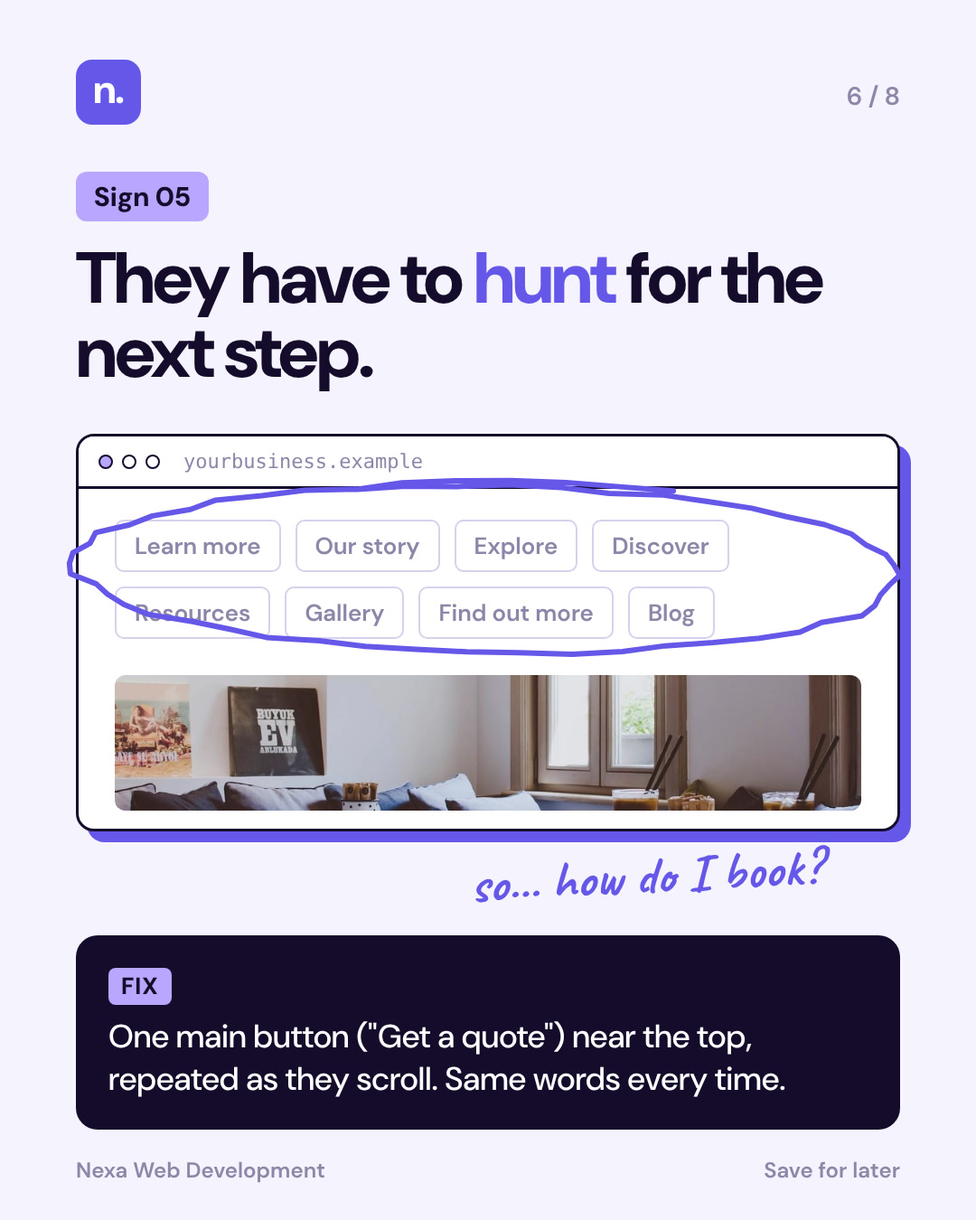
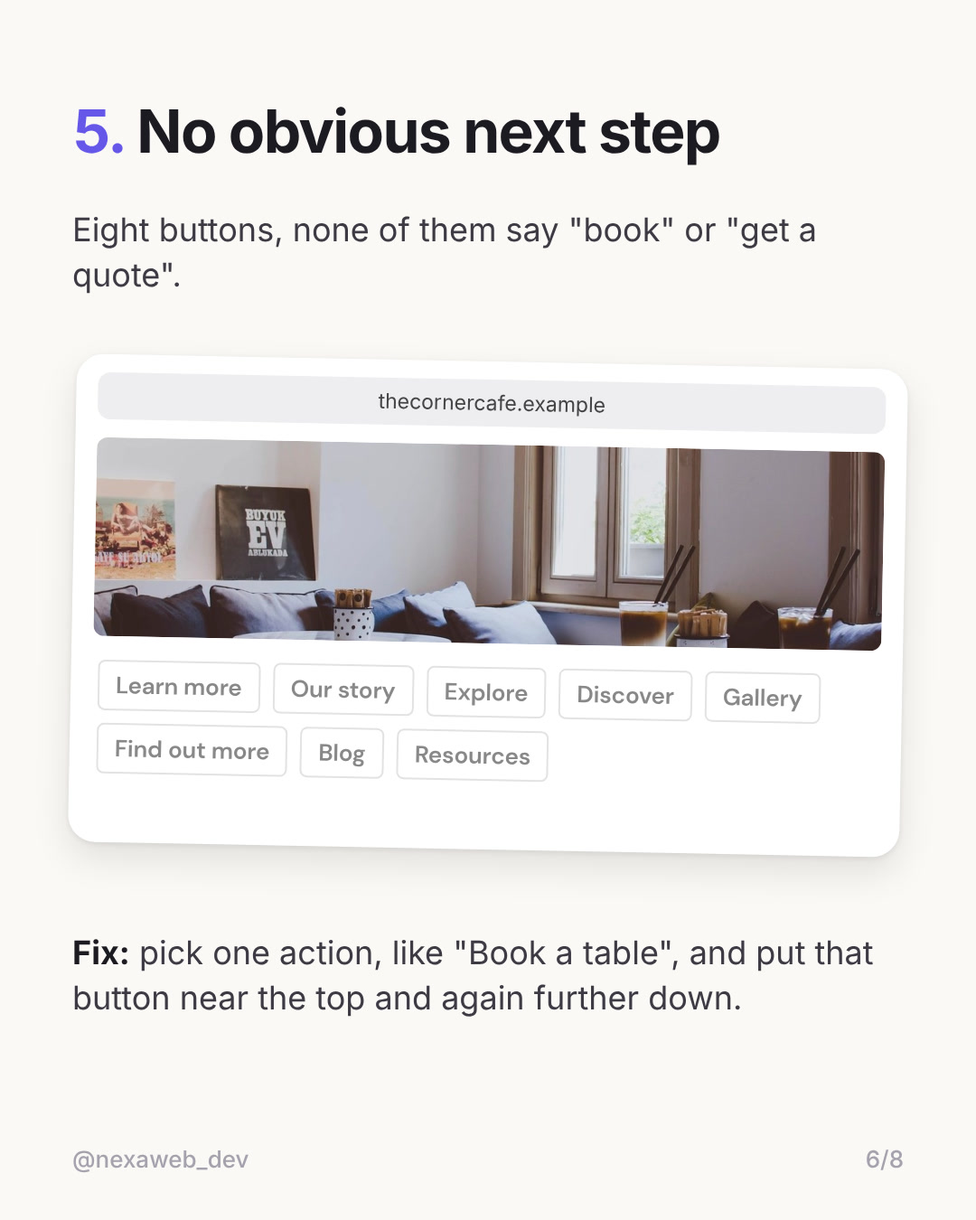
Nexa carousel v5: less-AI casual screenshot style
Claude-Session: https://claude.ai/code/session_01MAv6C5ZgnW2b7gxvkk4iYD

diff --git a/nexa/images/website-costing-customers-6-signs/src/slides.html b/nexa/images/website-costing-customers-6-signs/src/slides.html
@@ -1,160 +1,158 @@
 <!doctype html><html><head><meta charset="utf-8"><style>
-@font-face{font-family:Hand;src:url(/home/claude/reels-hosting/pipeline/fonts/Caveat.ttf)}
 @font-face{font-family:DMS;src:url("/usr/share/fonts/truetype/google-fonts/ofl/dmsans/DMSans[opsz,wght].ttf");font-weight:100 1000}
-:root{--ind:#6557E8;--lav:#B9A6FF;--navy:#150C2B;--paper:#F5F3FD;--soft:#E6E0FF;--line:#D6D0EC;--mute:#8E86A8}
+:root{--ind:#6557E8;--lav:#B9A6FF;--navy:#150C2B;--ink:#1d1b22;--mute:#77737f}
 *{box-sizing:border-box;margin:0;padding:0}
-body{font-family:DMS,sans-serif;color:var(--navy);background:#999}
-.s{position:relative;width:1080px;height:1350px;overflow:hidden;background:var(--paper)}
-.s.dark{background:var(--navy);color:#fff}
-.logo{position:absolute;left:84px;top:66px;width:72px;height:72px;border-radius:18px;background:var(--ind);color:#fff;font-weight:800;font-size:44px;display:flex;align-items:center;justify-content:center;letter-spacing:-1px;padding-bottom:6px}
-.pg{position:absolute;right:84px;top:88px;font-size:28px;font-weight:600;color:var(--mute)}
-.dark .pg{color:#8B80B8}
-.tagl{display:inline-block;background:var(--lav);color:var(--navy);font-weight:800;font-size:30px;padding:8px 20px;border-radius:12px}
-.lbl{position:absolute;left:84px;top:190px}
-.h{position:absolute;left:84px;right:84px;font-weight:800;letter-spacing:-.035em;line-height:1.02}
-.h em{font-style:normal;color:var(--ind)}
-.dark .h em{color:var(--lav)}
-.win{position:absolute;left:84px;right:84px;background:#fff;border:3px solid var(--navy);border-radius:20px;overflow:hidden;box-shadow:12px 12px 0 var(--ind)}
-.wbar{height:58px;border-bottom:3px solid var(--navy);display:flex;align-items:center;padding:0 22px;gap:10px;background:#fff}
-.wbar i{width:16px;height:16px;border-radius:50%;border:2.5px solid var(--navy);display:inline-block}
-.wbar i:first-child{background:var(--lav)}
-.wbar span{margin-left:16px;font-family:'DejaVu Sans Mono',monospace;font-size:22px;color:var(--mute)}
-.hand{font-family:Hand;color:var(--ind);font-weight:700;position:absolute;line-height:1}
-.dark .hand{color:var(--lav)}
-svg.mk{position:absolute;overflow:visible}
-.fix{position:absolute;left:84px;right:84px;bottom:100px;background:var(--navy);color:#fff;border-radius:24px;padding:30px 36px 32px;font-size:36px;line-height:1.3;font-weight:500}
-.fix b{display:inline-block;background:var(--lav);color:var(--navy);font-weight:800;font-size:26px;padding:4px 14px;border-radius:8px;margin-bottom:12px;letter-spacing:1px}
-.foot{position:absolute;left:84px;right:84px;bottom:40px;display:flex;justify-content:space-between;font-size:24px;color:var(--mute);font-weight:600}
-.field{border:2px solid var(--line);border-radius:10px;padding:12px 16px;font-size:24px;color:var(--mute)}
-.pill{border:2px solid var(--line);border-radius:10px;padding:10px 20px;font-size:26px;font-weight:600;color:var(--mute);display:inline-block}
-.bar{height:18px;background:#ECE8F7;border-radius:6px}
-.img{background:var(--soft);border-radius:12px;position:relative;overflow:hidden}
-.ph{display:block;width:100%;height:100%;object-fit:cover;border-radius:12px}
-.img:before{content:"";position:absolute;left:12%;bottom:-30%;width:60%;height:80%;background:var(--lav);border-radius:50% 50% 0 0;opacity:.8}
-.img:after{content:"";position:absolute;right:16%;top:20%;width:46px;height:46px;border-radius:50%;background:#fff}
+body{font-family:'Inter',sans-serif;color:var(--ink);background:#999}
+.s{position:relative;width:1080px;height:1350px;overflow:hidden;background:#FAF9F6}
+.t{position:absolute;left:80px;right:80px;font-weight:700;font-size:66px;line-height:1.08;letter-spacing:-.025em}
+.t .n{color:var(--ind)}
+.p{position:absolute;left:80px;right:80px;font-size:36px;line-height:1.38;color:#3d3a44;font-weight:400}
+.fx{position:absolute;left:80px;right:80px;font-size:36px;line-height:1.38;font-weight:400;color:#3d3a44}
+.fx b{font-weight:700;color:var(--ink)}
+.handle{position:absolute;left:80px;bottom:52px;font-size:26px;color:#a6a2ad;font-weight:500}
+.cnt{position:absolute;right:80px;bottom:52px;font-size:26px;color:#a6a2ad;font-weight:500}
+/* screenshot */
+.shot{position:absolute;background:#fff;border-radius:30px;overflow:hidden;box-shadow:0 2px 6px rgba(0,0,0,.08),0 18px 40px rgba(0,0,0,.10);font-family:DMS,sans-serif}
+.sb{height:56px;display:flex;align-items:center;justify-content:space-between;padding:0 34px;font-family:'Inter';font-weight:600;font-size:24px;color:#111}
+.sb .ic{display:flex;gap:8px;align-items:center}
+.sb .bat{width:40px;height:19px;border:2px solid #111;border-radius:5px;position:relative}.sb .bat:after{content:"";position:absolute;inset:2px 10px 2px 2px;background:#111;border-radius:2px}
+.url{margin:0 24px;height:52px;border-radius:14px;background:#EEEDF0;display:flex;align-items:center;justify-content:center;font-family:'Inter';font-size:23px;color:#444}
+.ph{display:block;width:100%;height:100%;object-fit:cover}
+svg.sc{position:absolute;overflow:visible;pointer-events:none}
 </style></head><body>
 
-<!-- 1 HOOK (dark) -->
-<div class="s dark" id="s1"><img src="img/hook.jpg" style="position:absolute;inset:0;width:100%;height:100%;object-fit:cover"><div style="position:absolute;inset:0;background:rgba(21,12,43,.66)"></div>
- <div class="logo">n.</div><div class="pg">@nexaweb_dev</div>
- <div class="h" style="top:230px;font-size:132px">Your website is losing you <em>customers.</em></div>
- <div class="hand" style="left:90px;top:680px;font-size:92px;transform:rotate(-3deg)">and it won't tell you.</div>
-  <div style="position:absolute;left:84px;top:900px;font-size:48px;font-weight:600;line-height:1.3;width:800px">6 quiet signs to check today.<br><span style="color:#B9A6FF">Most take 5 minutes to fix.</span></div>
- <svg class="mk" style="left:84px;top:1090px" width="300" height="80"><path d="M6 40 C 80 30, 170 50, 250 38 M226 18 L 262 38 L 230 62" stroke="#B9A6FF" stroke-width="6" fill="none" stroke-linecap="round" stroke-linejoin="round"/></svg>
- <div class="hand" style="left:90px;top:1180px;font-size:56px">swipe</div>
+<!-- 1 cover -->
+<div class="s" id="s1">
+ <img src="img/hook.jpg" style="position:absolute;inset:0;width:100%;height:100%;object-fit:cover">
+ <div style="position:absolute;inset:0;background:linear-gradient(180deg,rgba(21,12,43,.15) 30%,rgba(21,12,43,.82) 72%)"></div>
+ <div class="t" style="top:820px;color:#fff;font-size:84px">6 things quietly killing your website</div>
+ <div class="p" style="top:1110px;color:#E9E4FF;font-size:40px">most take 5 minutes to fix. swipe &#8594;</div>
+ <div class="handle" style="color:#cfc8e8">@nexaweb_dev</div>
 </div>
 
 <!-- 2 -->
 <div class="s" id="s2">
- <div class="logo">n.</div><div class="pg">2 / 8</div>
- <div class="lbl"><span class="tagl">Sign 01</span></div>
- <div class="h" style="top:268px;font-size:80px">A stranger can't tell <em>what you do</em> in 5 seconds.</div>
- <div class="win" style="top:560px;height:390px"><div class="wbar"><i></i><i></i><i></i><span>yourplumber.example</span></div>
-  <div style="padding:30px 40px;display:flex;gap:30px"><div style="flex:1"><div style="font-size:20px;letter-spacing:3px;color:var(--mute);font-weight:700">HOME &nbsp; ABOUT &nbsp; CONTACT</div>
-  <div style="font-weight:800;font-size:56px;margin-top:30px;letter-spacing:-.02em;line-height:1.05">Welcome to our website!</div>
-  <div style="font-size:24px;color:var(--mute);margin-top:14px">We are passionate about excellence.</div></div>
-  <div style="width:270px;height:270px"><img class="ph" src="img/pipes.jpg"></div></div></div>
- <svg class="mk" id="c2" style="left:96px;top:676px" width="590" height="170"></svg>
- <div class="hand" style="left:440px;top:478px;font-size:56px;white-space:nowrap;transform:rotate(-2deg)">ok... but what do you do?</div>
- <div class="fix"><b>FIX</b><br>Say what you do, who it's for and where. "Blocked drain? Fixed today in Parramatta."</div>
- <div class="foot"><span>Nexa Web Development</span><span>Save for later</span></div>
+ <div class="t" style="top:110px"><span class="n">1.</span> Nobody can tell what you actually do</div>
+ <div class="p" style="top:330px">If the homepage says "Welcome to our website", a stranger has no clue if you can help them.</div>
+ <div class="shot" style="left:80px;top:500px;width:920px;height:470px;transform:rotate(-1.2deg)">
+  <div class="url" style="margin-top:20px">yourplumber.example</div>
+  <div style="display:flex;gap:26px;padding:30px 34px"><div style="flex:1">
+   <div style="font-size:21px;letter-spacing:2px;color:#999;font-weight:700">HOME &nbsp; ABOUT &nbsp; CONTACT</div>
+   <div style="font-weight:800;font-size:58px;line-height:1.05;margin-top:26px;color:#222">Welcome to our website!</div>
+   <div style="font-size:24px;color:#888;margin-top:14px">We are passionate about excellence.</div></div>
+   <div style="width:300px;height:300px;border-radius:12px;overflow:hidden"><img class="ph" src="img/pipes.jpg"></div></div></div>
+ <svg class="sc" id="k2" style="left:90px;top:640px" width="560" height="190"></svg>
+ <div class="fx" style="top:1050px"><b>Fix:</b> say what, who and where. "Blocked drains fixed today, Parramatta."</div>
+ <div class="handle">@nexaweb_dev</div><div class="cnt">2/8</div>
 </div>
 
 <!-- 3 -->
 <div class="s" id="s3">
- <div class="logo">n.</div><div class="pg">3 / 8</div>
- <div class="lbl"><span class="tagl">Sign 02</span></div>
- <div class="h" style="top:268px;font-size:80px">Your phone number <em>can't be tapped</em> on mobile.</div>
- <div class="win" style="left:130px;right:auto;width:440px;top:530px;height:440px;border-radius:48px">
-  <div style="padding:46px 36px"><div class="bar" style="width:55%;margin:0 auto 26px;height:12px"></div><div style="height:130px"><img class="ph" src="img/cafe.jpg" style="object-position:50% 85%"></div>
-  <div style="font-size:28px;font-weight:700;margin-top:26px">Call us today!</div>
-  <div style="font-size:38px;font-weight:500;margin-top:6px;color:#5d5675">02 5550 4321</div>
-  <div class="bar" style="width:80%;margin-top:26px"></div></div></div>
- <svg class="mk" id="c3" style="left:140px;top:802px" width="380" height="84"></svg>
- <div class="hand" style="left:640px;top:760px;font-size:58px;transform:rotate(-4deg);width:380px">&larr; not a link.<br>copy, paste,<br>give up</div>
- <div class="fix"><b>FIX</b><br>Make every number a tap to call link, plus a call button that stays on screen.</div>
- <div class="foot"><span>Nexa Web Development</span><span>Save for later</span></div>
+ <div class="t" style="top:110px"><span class="n">2.</span> Your phone number isn't tappable</div>
+ <div class="p" style="top:330px;right:520px">On a phone they have to copy it, switch apps and paste it.<br><br>Plenty of people won't bother.</div>
+ <div class="shot" style="left:600px;top:300px;width:400px;height:720px;border-radius:40px">
+  <div class="sb"><span>9:41</span><span class="ic">&#9679;&#9679;&#9679; <span class="bat"></span></span></div>
+  <div style="height:200px"><img class="ph" src="img/cafe.jpg" style="object-position:50% 85%"></div>
+  <div style="padding:26px 28px"><div style="font-weight:800;font-size:38px;line-height:1.1">The Corner Cafe</div>
+  <div style="font-size:22px;color:#888;margin-top:10px">Open 7 days</div>
+  <div style="font-size:26px;font-weight:700;margin-top:34px">Call us to book:</div>
+  <div style="font-size:30px;color:#444;margin-top:6px">02 5550 4321</div>
+  <div style="height:16px;width:85%;background:#eee;border-radius:5px;margin-top:40px"></div><div style="height:16px;width:65%;background:#eee;border-radius:5px;margin-top:12px"></div></div>
+  <div class="url" style="position:absolute;left:0;right:0;bottom:26px">thecornercafe.example</div></div>
+ <svg class="sc" id="k3" style="left:604px;top:720px" width="300" height="80"></svg>
+ <svg class="sc" id="a3" style="left:380px;top:650px" width="230" height="140"></svg>
+ <div class="fx" style="top:1080px"><b>Fix:</b> make it a tap to call link, and add a call button that stays on screen.</div>
+ <div class="handle">@nexaweb_dev</div><div class="cnt">3/8</div>
 </div>
 
 <!-- 4 -->
 <div class="s" id="s4">
- <div class="logo">n.</div><div class="pg">4 / 8</div>
- <div class="lbl"><span class="tagl">Sign 03</span></div>
- <div class="h" style="top:268px;font-size:80px">Your contact form asks for their <em>life story.</em></div>
- <div class="win" style="top:540px;height:410px"><div class="wbar"><i></i><i></i><i></i><span>Get in touch</span></div>
-  <div style="padding:28px 36px;display:grid;grid-template-columns:1fr 1fr;gap:14px">
-  <div class="field">Name *</div><div class="field">Company *</div><div class="field">Job title *</div><div class="field">Budget *</div>
-  <div class="field">Street address *</div><div class="field">Postcode *</div><div class="field">How did you hear? *</div><div class="field">Fax *</div></div></div>
- <svg class="mk" id="c4" style="left:535px;top:822px" width="420" height="84"></svg>
- <div class="hand" style="left:770px;top:452px;font-size:64px;transform:rotate(-5deg)">fax??</div>
- <div class="fix"><b>FIX</b><br>Ask only what you need to reply. Name, phone or email, message. Get the rest on the call.</div>
- <div class="foot"><span>Nexa Web Development</span><span>Save for later</span></div>
+ <div class="t" style="top:110px"><span class="n">3.</span> Your contact form wants their life story</div>
+ <div class="shot" style="left:80px;top:360px;width:920px;height:560px;transform:rotate(1deg)">
+  <div class="url" style="margin-top:20px">yourbusiness.example/contact</div>
+  <div style="padding:26px 34px"><div style="font-weight:800;font-size:40px;margin-bottom:20px">Get in touch</div>
+  <div style="display:grid;grid-template-columns:1fr 1fr;gap:14px;font-family:Inter;font-size:23px;color:#999">
+  <div style="border:2px solid #e2e2e2;border-radius:8px;padding:13px 16px">Full name *</div><div style="border:2px solid #e2e2e2;border-radius:8px;padding:13px 16px">Company *</div>
+  <div style="border:2px solid #e2e2e2;border-radius:8px;padding:13px 16px">Job title *</div><div style="border:2px solid #e2e2e2;border-radius:8px;padding:13px 16px">Budget *</div>
+  <div style="border:2px solid #e2e2e2;border-radius:8px;padding:13px 16px">Street address *</div><div style="border:2px solid #e2e2e2;border-radius:8px;padding:13px 16px">Postcode *</div>
+  <div style="border:2px solid #e2e2e2;border-radius:8px;padding:13px 16px">How did you hear? *</div><div style="border:2px solid #e2e2e2;border-radius:8px;padding:13px 16px">Fax number *</div></div></div></div>
+ <svg class="sc" id="k4" style="left:520px;top:727px" width="470" height="96"></svg>
+ <svg class="sc" id="u4" style="left:200px;top:1020px" width="10" height="10"></svg>
+ <div class="fx" style="top:1000px"><b>Fix:</b> ask for name, phone or email and a message. That's it. Get the rest on the call.</div>
+ <div class="handle">@nexaweb_dev</div><div class="cnt">4/8</div>
 </div>
 
 <!-- 5 -->
 <div class="s" id="s5">
- <div class="logo">n.</div><div class="pg">5 / 8</div>
- <div class="lbl"><span class="tagl">Sign 04</span></div>
- <div class="h" style="top:268px;font-size:80px">It loads slower than they can <em>scroll away.</em></div>
- <div class="win" style="top:540px;height:410px"><div class="wbar"><i></i><i></i><i></i><span>loading...</span></div>
-  <div style="height:6px;background:#ECE8F7"><div style="width:22%;height:100%;background:var(--ind)"></div></div>
-  <div style="height:300px;margin:24px 36px 0;border-radius:12px;overflow:hidden;position:relative;background:#ECE8F7"><img src="img/garden.jpg" style="width:100%;height:300px;object-fit:cover;clip-path:inset(0 0 50% 0)"><div style="position:absolute;left:0;right:0;top:50%;height:6px;background:linear-gradient(90deg,transparent,var(--ind),transparent)"></div><div style="position:absolute;left:0;right:0;bottom:40px;text-align:center;font-size:28px;color:var(--mute);font-weight:600">hero-photo-FINAL-v3.png (14 MB)</div></div></div>
- <div class="hand" style="left:600px;top:460px;font-size:60px;transform:rotate(-3deg)">still loading...</div>
- <div class="fix"><b>FIX</b><br>Resize and compress your images, then test your site for free at pagespeed.web.dev</div>
- <div class="foot"><span>Nexa Web Development</span><span>Save for later</span></div>
+ <div class="t" style="top:110px"><span class="n">4.</span> It takes forever to load</div>
+ <div class="p" style="top:260px">Usually one giant photo straight off a camera.</div>
+ <div class="shot" style="left:80px;top:390px;width:920px;height:560px;transform:rotate(-.8deg)">
+  <div class="url" style="margin-top:20px">yourlandscaper.example</div>
+  <div style="height:5px;background:#eee;margin:16px 24px 0;border-radius:3px"><div style="width:30%;height:100%;background:#2f7cf6;border-radius:3px"></div></div>
+  <div style="margin:20px 24px 0;height:430px;border-radius:12px;overflow:hidden;background:#f1f0f3;position:relative"><img src="img/garden.jpg" style="width:100%;height:430px;object-fit:cover;clip-path:inset(0 0 58% 0)">
+  <div style="position:absolute;left:50%;top:66%;width:56px;height:56px;margin:-28px;border:6px solid #ddd;border-top-color:#999;border-radius:50%"></div></div></div>
+ <svg class="sc" id="u5" style="left:110px;top:950px" width="10" height="10"></svg>
+ <div class="fx" style="top:1040px"><b>Fix:</b> shrink your images, then test your site free at pagespeed.web.dev</div>
+ <div class="handle">@nexaweb_dev</div><div class="cnt">5/8</div>
 </div>
 
 <!-- 6 -->
 <div class="s" id="s6">
- <div class="logo">n.</div><div class="pg">6 / 8</div>
- <div class="lbl"><span class="tagl">Sign 05</span></div>
- <div class="h" style="top:268px;font-size:80px">They have to <em>hunt</em> for the next step.</div>
- <div class="win" style="top:480px;height:440px"><div class="wbar"><i></i><i></i><i></i><span>yourbusiness.example</span></div>
-  <div style="padding:34px 40px;display:flex;flex-wrap:wrap;gap:16px">
-  <span class="pill">Learn more</span><span class="pill">Our story</span><span class="pill">Explore</span><span class="pill">Discover</span><span class="pill">Resources</span><span class="pill">Gallery</span><span class="pill">Find out more</span><span class="pill">Blog</span></div>
-  <div style="height:150px;margin:6px 40px 0"><img class="ph" src="img/cafe2.jpg" style="object-position:50% 60%"></div></div>
- <svg class="mk" id="c6" style="left:74px;top:530px" width="932" height="196"></svg>
- <div class="hand" style="left:520px;top:940px;font-size:58px;transform:rotate(-3deg)">so... how do I book?</div>
- <div class="fix"><b>FIX</b><br>One main button ("Get a quote") near the top, repeated as they scroll. Same words every time.</div>
- <div class="foot"><span>Nexa Web Development</span><span>Save for later</span></div>
+ <div class="t" style="top:110px"><span class="n">5.</span> No obvious next step</div>
+ <div class="p" style="top:230px">Eight buttons, none of them say "book" or "get a quote".</div>
+ <div class="shot" style="left:80px;top:400px;width:920px;height:540px;transform:rotate(1.1deg)">
+  <div class="url" style="margin-top:20px">thecornercafe.example</div>
+  <div style="height:220px;margin:20px 24px 0;border-radius:12px;overflow:hidden"><img class="ph" src="img/cafe2.jpg" style="object-position:50% 60%"></div>
+  <div style="padding:26px 30px;display:flex;flex-wrap:wrap;gap:14px;font-size:26px;font-weight:600;color:#888">
+  <span style="border:2px solid #e2e2e2;border-radius:8px;padding:9px 18px">Learn more</span><span style="border:2px solid #e2e2e2;border-radius:8px;padding:9px 18px">Our story</span><span style="border:2px solid #e2e2e2;border-radius:8px;padding:9px 18px">Explore</span><span style="border:2px solid #e2e2e2;border-radius:8px;padding:9px 18px">Discover</span><span style="border:2px solid #e2e2e2;border-radius:8px;padding:9px 18px">Gallery</span><span style="border:2px solid #e2e2e2;border-radius:8px;padding:9px 18px">Find out more</span><span style="border:2px solid #e2e2e2;border-radius:8px;padding:9px 18px">Blog</span><span style="border:2px solid #e2e2e2;border-radius:8px;padding:9px 18px">Resources</span></div></div>
+ <svg class="sc" id="q6" style="left:900px;top:330px" width="10" height="10"></svg>
+ <div class="fx" style="top:1030px"><b>Fix:</b> pick one action, like "Book a table", and put that button near the top and again further down.</div>
+ <div class="handle">@nexaweb_dev</div><div class="cnt">6/8</div>
 </div>
 
 <!-- 7 -->
 <div class="s" id="s7">
- <div class="logo">n.</div><div class="pg">7 / 8</div>
- <div class="lbl"><span class="tagl">Sign 06</span></div>
- <div class="h" style="top:268px;font-size:80px">Your site looks like <em>nobody's home.</em></div>
- <div class="win" style="top:480px;height:420px"><div class="wbar"><i></i><i></i><i></i><span>yourbusiness.example/news</span></div>
-  <div style="padding:34px 40px"><div style="font-size:24px;color:var(--mute);font-weight:600">Posted March 2019</div>
-  <div style="display:flex;gap:28px;margin-top:8px"><div style="flex:1"><div style="font-size:44px;font-weight:800;letter-spacing:-.01em;line-height:1.1">Exciting things coming soon!</div>
-  <div class="bar" style="width:85%;margin-top:22px"></div><div class="bar" style="width:60%;margin-top:12px"></div></div><div style="width:250px;height:170px"><img class="ph" src="img/closed.jpg"></div></div>
-  <div style="height:2px;background:#ECE8F7;margin:40px 0 20px"></div>
-  <div style="font-size:24px;color:var(--mute)">© 2019 Example Co &nbsp;·&nbsp; Opening hours: TBC</div></div></div>
- <svg class="mk" id="c7" style="left:96px;top:600px" width="560" height="150"></svg>
- <div class="hand" style="left:540px;top:930px;font-size:58px;transform:rotate(-3deg)">are they still open?</div>
- <div class="fix"><b>FIX</b><br>Update the footer year, hours and old posts, or delete them. Stale looks closed.</div>
- <div class="foot"><span>Nexa Web Development</span><span>Save for later</span></div>
+ <div class="t" style="top:110px"><span class="n">6.</span> It looks like nobody's home</div>
+ <div class="p" style="top:230px">If the latest post is from 2019, people wonder if you're still open.</div>
+ <div class="shot" style="left:80px;top:400px;width:920px;height:520px;transform:rotate(-1deg)">
+  <div class="url" style="margin-top:20px">yourbusiness.example/news</div>
+  <div style="display:flex;gap:28px;padding:32px 34px"><div style="flex:1"><div style="font-family:Inter;font-size:23px;color:#999">Posted 14 March 2019</div>
+  <div style="font-weight:800;font-size:46px;line-height:1.08;margin-top:10px">Exciting things coming soon!</div>
+  <div style="height:16px;width:90%;background:#eee;border-radius:5px;margin-top:26px"></div><div style="height:16px;width:70%;background:#eee;border-radius:5px;margin-top:12px"></div></div>
+  <div style="width:330px;height:240px;border-radius:12px;overflow:hidden"><img class="ph" src="img/closed.jpg"></div></div>
+  <div style="position:absolute;left:34px;right:34px;bottom:30px;border-top:2px solid #eee;padding-top:18px;font-family:Inter;font-size:22px;color:#aaa">© 2019 Example Co &nbsp;·&nbsp; Opening hours: TBC</div></div>
+ <svg class="sc" id="k7" style="left:96px;top:478px" width="380" height="84"></svg>
+ <div class="fx" style="top:1010px"><b>Fix:</b> update the footer year and opening hours, and delete old posts you won't update.</div>
+ <div class="handle">@nexaweb_dev</div><div class="cnt">7/8</div>
 </div>
 
-<!-- 8 CTA (dark) -->
-<div class="s dark" id="s8">
- <div class="logo">n.</div><div class="pg">8 / 8</div>
- <div class="h" style="top:200px;font-size:92px">How many did your site <em>fail?</em></div>
- <div style="position:absolute;left:84px;right:84px;top:440px;font-size:40px;font-weight:600">
-  <div style="display:flex;align-items:center;gap:24px;padding:20px 0;border-bottom:2px solid #2E2450"><span style="width:52px;height:52px;border-radius:14px;border:3px solid var(--lav);display:inline-block"></span>Clear "what we do" headline</div>
-  <div style="display:flex;align-items:center;gap:24px;padding:20px 0;border-bottom:2px solid #2E2450"><span style="width:52px;height:52px;border-radius:14px;border:3px solid var(--lav);display:inline-block"></span>Tap to call number</div>
-  <div style="display:flex;align-items:center;gap:24px;padding:20px 0;border-bottom:2px solid #2E2450"><span style="width:52px;height:52px;border-radius:14px;border:3px solid var(--lav);display:inline-block"></span>Short contact form</div>
-  <div style="display:flex;align-items:center;gap:24px;padding:20px 0;border-bottom:2px solid #2E2450"><span style="width:52px;height:52px;border-radius:14px;border:3px solid var(--lav);display:inline-block"></span>Loads fast</div>
-  <div style="display:flex;align-items:center;gap:24px;padding:20px 0;border-bottom:2px solid #2E2450"><span style="width:52px;height:52px;border-radius:14px;border:3px solid var(--lav);display:inline-block"></span>One obvious button</div>
-  <div style="display:flex;align-items:center;gap:24px;padding:20px 0"><span style="width:52px;height:52px;border-radius:14px;border:3px solid var(--lav);display:inline-block"></span>Nothing out of date</div></div>
- <div class="hand" style="left:84px;top:1040px;font-size:70px;transform:rotate(-2deg)">save this, check yours tonight</div>
- <div style="position:absolute;left:84px;top:1150px;display:inline-block;background:var(--lav);color:var(--navy);font-weight:800;font-size:40px;padding:16px 30px;border-radius:14px">Follow @nexaweb_dev for more</div>
+<!-- 8 -->
+<div class="s" id="s8">
+ <div class="t" style="top:160px;font-size:76px">So, how many did your site fail?</div>
+ <div class="p" style="top:400px;font-size:44px;line-height:1.75;color:var(--ink)">
+  1. Clear "what we do"<br>2. Tap to call number<br>3. Short contact form<br>4. Loads fast<br>5. One obvious button<br>6. Nothing out of date</div>
+ <svg class="sc" id="u8" style="left:80px;top:1090px" width="10" height="10"></svg>
+ <div class="p" style="top:1000px;font-size:40px;color:var(--ink)">Save this and check yours tonight.<br>Follow <b style="color:var(--ind)">@nexaweb_dev</b> for more like this.</div>
 </div>
 
 <script>
-function loop(id,w,h,rot,col){const el=document.getElementById(id);let r=1;const rnd=()=>{r=(r*9301+49297)%233280;return r/233280};
-let d='',cx=w/2,cy=h/2;for(let i=0;i<=56;i++){const a=-1.9+i/50*Math.PI*2;const k=1+(rnd()-.5)*.05+(i>50?.06:0);const x=cx+Math.cos(a)*(w/2-8)*k,y=cy+Math.sin(a)*(h/2-8)*k;d+=(i?'L':'M')+x.toFixed(1)+' '+y.toFixed(1)}
-el.innerHTML=`<path d="${d}" stroke="${col||'#6557E8'}" stroke-width="6" fill="none" stroke-linecap="round" stroke-linejoin="round" transform="rotate(${rot} ${cx} ${cy})"/>`}
-loop("c2",590,170,-1.5);loop('c3',380,84,2);loop('c4',420,84,-2);loop('c6',932,200,1);loop('c7',560,150,-1);
+// freehand marker: two slightly different passes, wobble, open ends
+let seed=7;const rnd=()=>{seed=(seed*16807)%2147483647;return seed/2147483647};
+const C='#6557E8';
+function P(pts){return pts.map((p,i)=>(i?'L':'M')+p[0].toFixed(1)+' '+p[1].toFixed(1)).join(' ')}
+function circle(id,w,h,rot=0){const el=document.getElementById(id);let out='';
+ for(let pass=0;pass<2;pass++){const pts=[];const st=-2.2+pass*.35,n=60,end=st+Math.PI*2*(1.08+pass*.04);
+  for(let i=0;i<=n;i++){const a=st+(end-st)*i/n;const k=1+(rnd()-.5)*.035+pass*.025;pts.push([w/2+Math.cos(a)*(w/2-10)*k,h/2+Math.sin(a)*(h/2-10)*k])}
+  out+=`<path d="${P(pts)}" stroke="${C}" stroke-width="${pass?4:6.5}" fill="none" stroke-linecap="round" stroke-linejoin="round" opacity="${pass?.75:.95}"/>`}
+ el.innerHTML=`<g transform="rotate(${rot} ${w/2} ${h/2})">${out}</g>`}
+function underline(id,x,y,len){const el=document.getElementById(id);const pts=[];for(let i=0;i<=24;i++){pts.push([x+len*i/24,y+Math.sin(i/3)*2+(rnd()-.5)*3-(i/24)*8])}
+ el.innerHTML=`<path d="${P(pts)}" stroke="${C}" stroke-width="7" fill="none" stroke-linecap="round" opacity=".9"/>`}
+function arrow(id,x1,y1,x2,y2,bend){const el=document.getElementById(id);const mx=(x1+x2)/2,my=(y1+y2)/2-bend;
+ const pts=[];for(let i=0;i<=30;i++){const t=i/30;pts.push([(1-t)*(1-t)*x1+2*(1-t)*t*mx+t*t*x2+(rnd()-.5)*2,(1-t)*(1-t)*y1+2*(1-t)*t*my+t*t*y2+(rnd()-.5)*2])}
+ const a=Math.atan2(y2-pts[27][1],x2-pts[27][0]);const h1=[x2-26*Math.cos(a-.5),y2-26*Math.sin(a-.5)],h2=[x2-26*Math.cos(a+.5),y2-26*Math.sin(a+.5)];
+ el.innerHTML=`<path d="${P(pts)} M${h1[0]} ${h1[1]} L${x2} ${y2} L${h2[0]} ${h2[1]}" stroke="${C}" stroke-width="6.5" fill="none" stroke-linecap="round" stroke-linejoin="round"/>`}
+function qmark(id){document.getElementById(id).innerHTML=`<text x="0" y="0" font-family="Caveat" font-size="1" fill="none"></text>`}
+circle('k2',560,190,-3);circle('k3',300,80,2);arrow('a3',20,120,175,60,45);circle('k4',470,96,-1.5);
+circle('k7',380,84,-2);
 </script>
 </body></html>

diff --git a/nexa/NOTES.md b/nexa/NOTES.md
@@ -12,3 +12,6 @@
 - 2026-11-20 (Jayden): carousels need real images (visually appealing, not overloaded). Use CC0 photos via Openverse
   (api.openverse.org, license=cc0; stocksnap downloads fail here, rawpixel/wordpress.org/wikimedia work), max one per slide,
   no recognisable faces. Keep credits in src/img/CREDITS.md.
+- 2026-11-20 (Jayden): still "looks AI" with template elements. Current direction (v5, src/slides.html): fewer elements,
+  casual short copy, realistic screenshots, freehand marker scribbles, no label pills / FIX boxes / logo badges / handwriting font,
+  slightly different layout per slide. He has no own screenshots or photos to supply.
